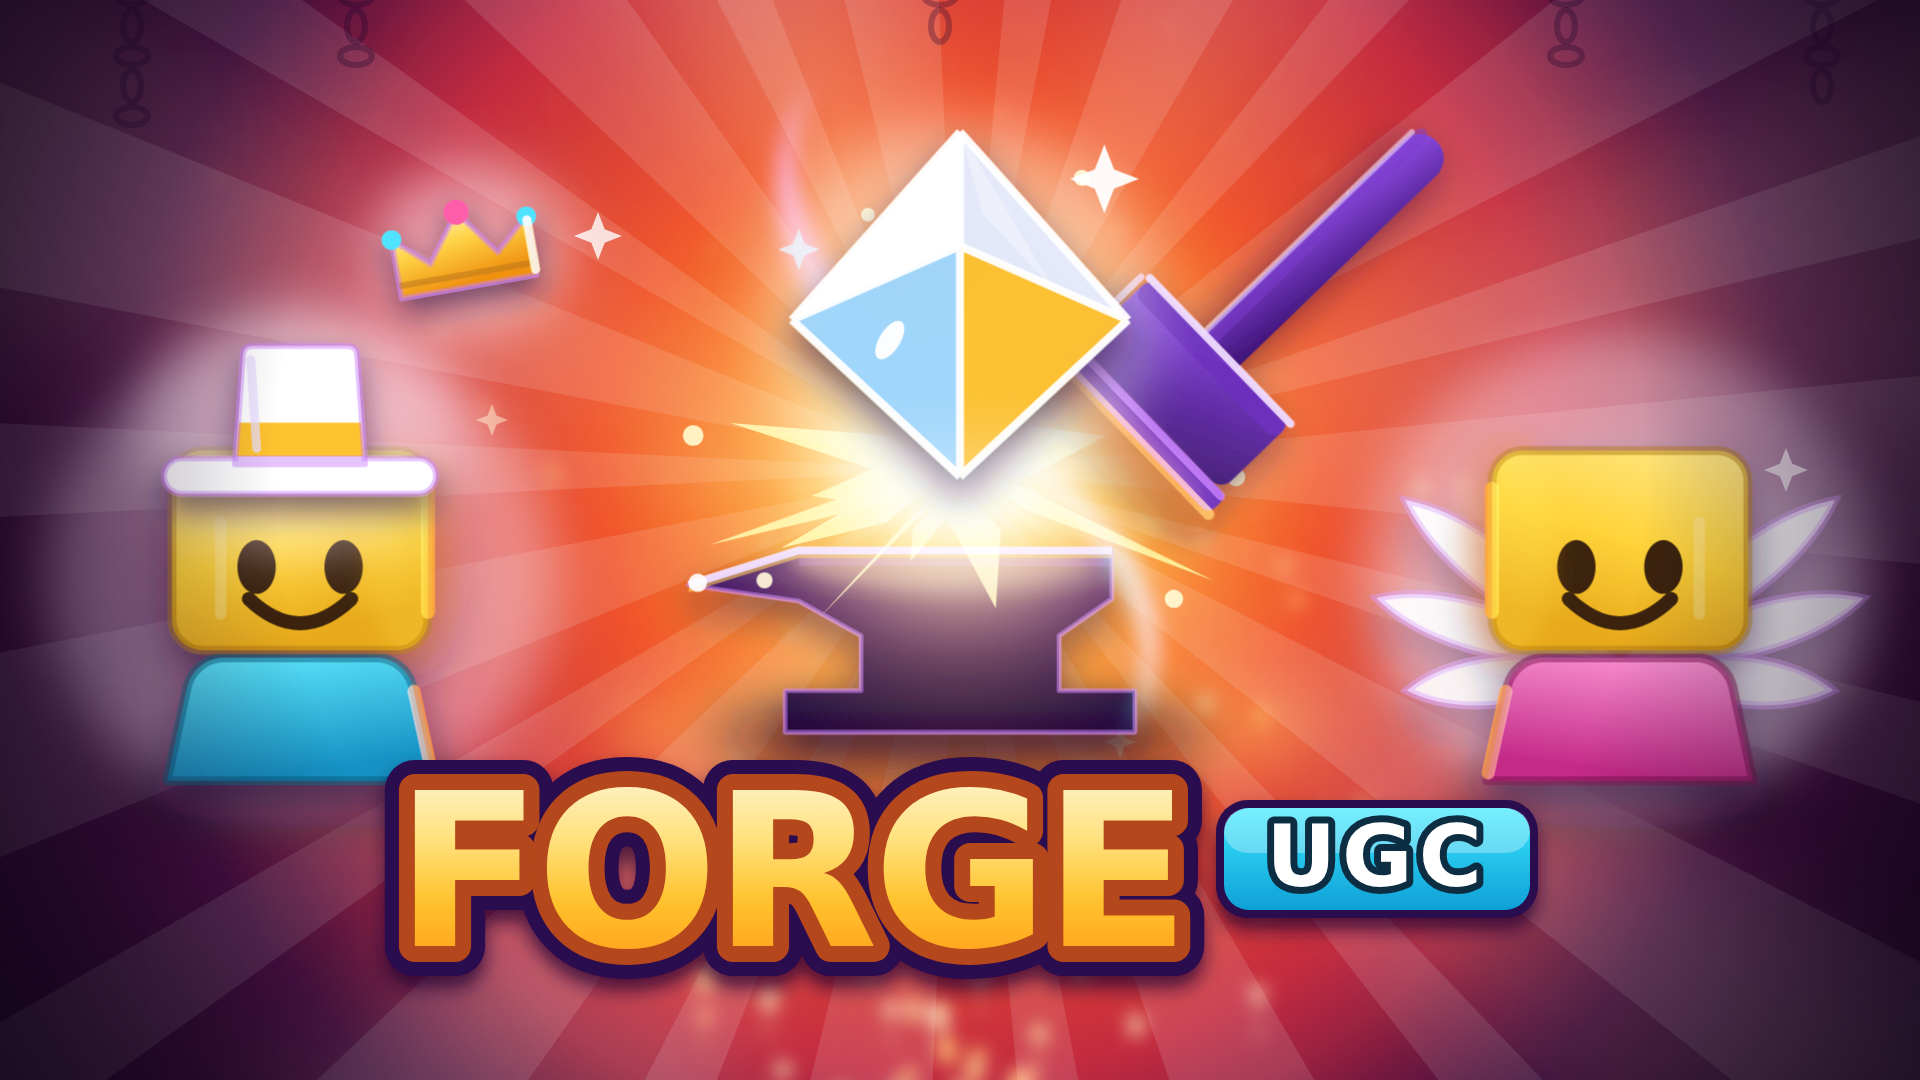
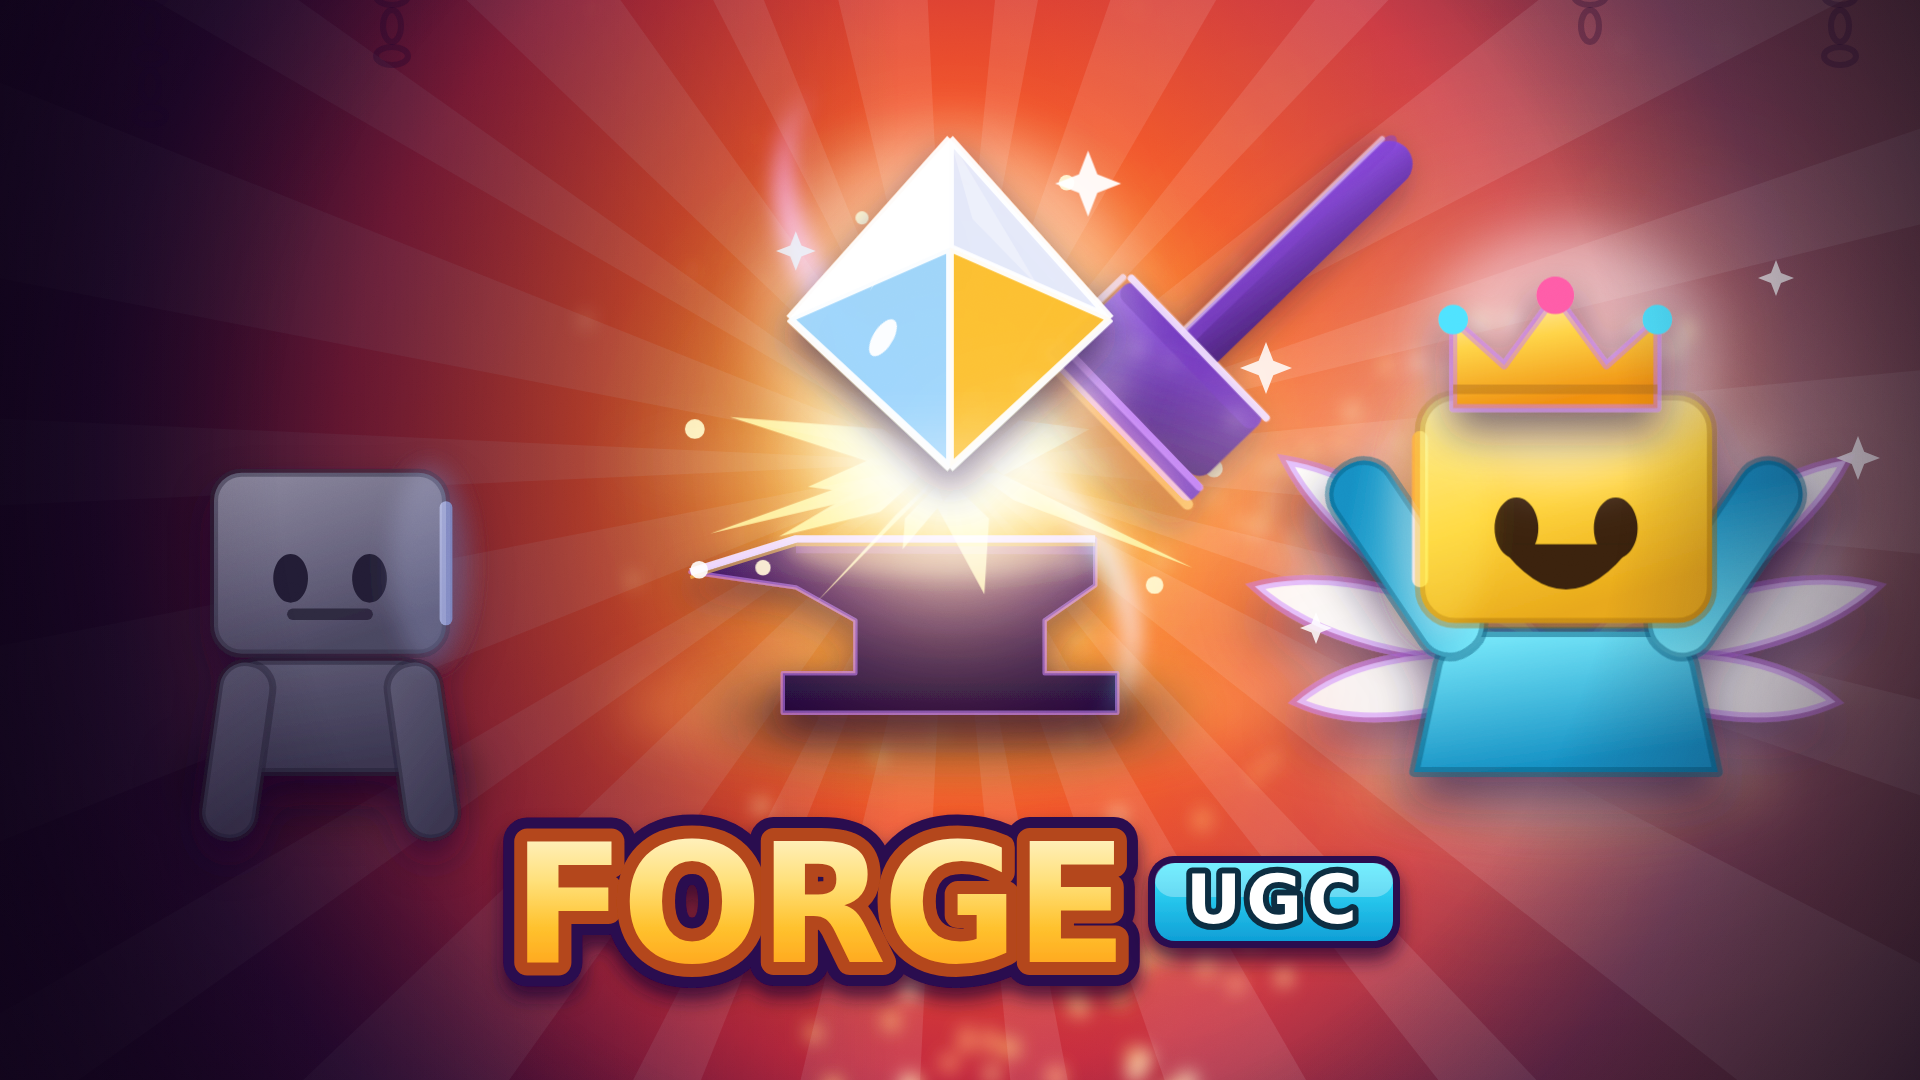
Rebuild the thumbnail as a transformation story
Replaces the symmetrical two-avatars-flanking-a-forge composition. That
layout showed what is in the game without saying what happens to you in it —
it was a logo card, not a story.

The new design reads left to right in three beats: a plain grey avatar goes
in, the forge is the engine, and the same avatar comes out crowned, winged
and arms-up. Colour, scale, posture, rim light and particle density all push
that one direction rather than repeating a single cue, and both characters
share a ground line so the size jump reads as levelling up rather than as
perspective. Light streams out of the forge toward the transformed side to
give the pair a direction.

Checked legibility at 460px carousel size.

diff --git a/assets/thumbnail/README.md b/assets/thumbnail/README.md
@@ -8,12 +8,37 @@ accepted formats. Editable source is `svg/forge_ugc_thumbnail.svg`.
 Upload it in Creator Hub → your experience → Basic Info → Thumbnails.
 Nothing in `src/` reads this file, and no ID from it goes back into code.
 
+## The design tells a story, left to right
+
+Three beats: a plain, grey, unadorned avatar goes in on the left; the forge
+is the engine in the middle; the **same** avatar comes out on the right
+transformed — bigger, gold-lit, crowned, winged, arms up.
+
+That is the experience's actual promise in one glance: *you come in plain,
+you leave with gear nobody else has.* A row of characters posed either side
+of a prop is a logo card, not a story — it shows what is in the game without
+saying what happens to you in it.
+
+Every channel pushes the same direction instead of repeating one:
+
+| | left | right |
+|---|---|---|
+| colour | cold violet | hot gold |
+| scale | small | large |
+| posture | arms down, flat mouth | arms raised, open grin |
+| light | cool blue rim | warm forge rim |
+| density | dead air | embers, sparks, wings |
+
+Both characters stand on the **same ground line**, so the size difference
+reads as "levelled up" rather than as perspective. Light streams out of the
+forge toward the transformed side — without a direction, two characters are
+just two characters rather than a before and an after.
+
 ## Relationship to the icon
 
-The thumbnail is not a wide crop of `assets/game_icon`. It shares the object
-art — same anvil, hammer, gem, avatars, wordmark treatment, same forge-ember
-palette — so the two read as one product, but the composition is built for
-16:9 from scratch.
+The thumbnail shares the object art with `assets/game_icon` — same anvil,
+hammer, gem, wordmark treatment, same forge-ember palette — so the two read
+as one product.
 
 The whole forge assembly is drawn in the icon's own coordinate space and then
 placed with a single transform. That keeps every relationship tuned for the
@@ -21,34 +46,21 @@ icon (where the hammer face contacts, how high the gem sits above the burst,
 where the shockwave sits on the anvil's top plane) exactly intact instead of
 re-deriving them at a new size and drifting.
 
-## What 16:9 changes
+## Things worth not re-learning
 
-- **Two avatars instead of one.** A square icon has room for one character;
-  a thumbnail can stage a scene. One wears the forged top hat, the other the
-  forged wings, which says "gear, plural" better than any single prop.
-- **The far avatar is mirrored, not re-lit.** The avatar's warm rim light is
-  baked onto its right edge for a forge to the right. On the other side of
-  the scene the forge is to its *left*, so the whole character is flipped —
-  which fixes the lighting and stops the pair looking cloned. Different shirt
-  colours finish that job.
-- **Wordmark set side by side** rather than stacked. A 16:9 frame has width
-  to spare and very little height left once the scene is staged.
-- **Backgrounds keyed to user space.** An `objectBoundingBox` radial on a
-  16:9 rect stretches into a wide ellipse, putting the falloff at a different
-  distance sideways than vertically; the thumbnail's gradients use
-  `userSpaceOnUse` with an explicit centre and radius so the falloff stays
-  circular and the corners land on the dark stops.
-
-## Two things worth not re-learning
-
+- **A transformation needs posture, not just palette.** Recolouring the same
+  pose reads as a palette swap. The arms and mouth carry at least half of it.
+- **Raised arms want ~146° from vertical.** Around 132° reads as a shrug;
+  past ~150° the arms disappear behind the head. They also have to be drawn
+  in front of the torso, or only a stub clears the silhouette.
 - **Worn wings need a near-horizontal fan.** Rooted level with the face they
-  fan up over the skull and read as a leafy crown; rooted at back height but
-  still steep, they hide behind the torso and read as fluff. They only read
-  as wings when the fan sweeps out past the body silhouette.
+  fan up over the skull and read as a leafy crown; steep, they hide behind
+  the torso and read as fluff.
 - **The hat's offset and scale are relative to the avatar's scale.** They were
-  hardcoded for exactly one avatar size, which silently slid the hat off the
-  head at every other size — the thumbnail draws avatars larger than the icon
-  does and surfaced it immediately.
+  hardcoded for one avatar size and slid off the head at every other.
+- **Backgrounds are keyed to user space.** An `objectBoundingBox` radial on a
+  16:9 rect stretches into a wide ellipse, putting the falloff at a different
+  distance sideways than vertically.
 
 ## Regenerating
 
